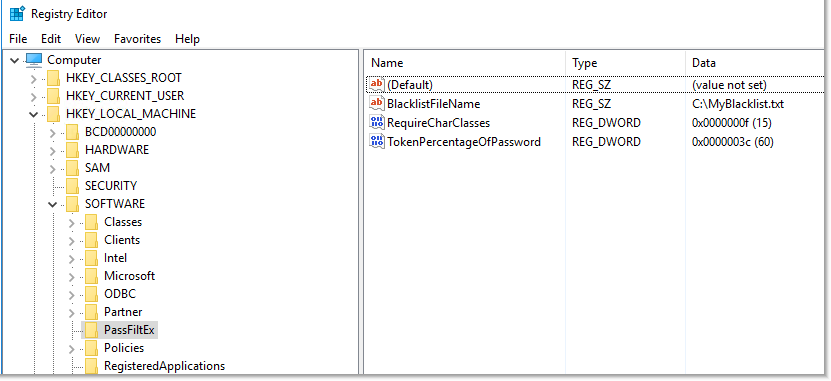
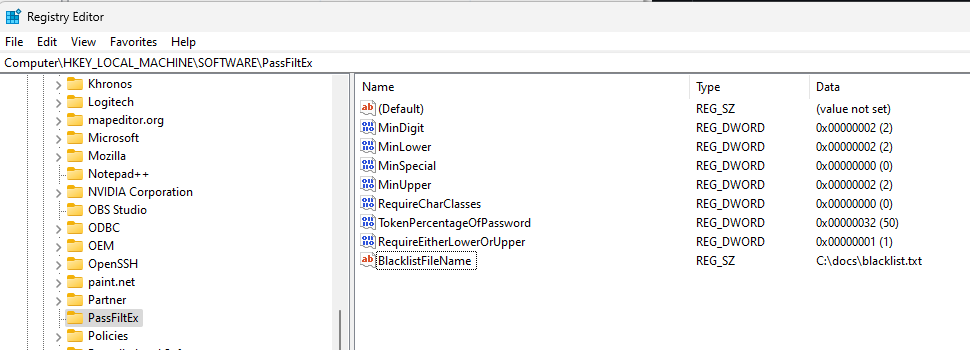
updating documentation

diff --git a/PassFiltEx.c b/PassFiltEx.c
@@ -1,15 +1,25 @@
 /*
+<img alt="GitHub all releases" src="https://img.shields.io/github/downloads/ryanries/PassFiltEx/total">
+
 PassFiltEx.c
+
 # PassFiltEx by Joseph Ryan Ries
-Author: Joseph Ryan Ries 2019 <ryanries09@gmail.com> <ryan.ries@microsoft.com>
+
+Author: Joseph Ryan Ries 2019-2023 <ryanries09@gmail.com> <ryan.ries@microsoft.com>
 
 A password filter for Active Directory that uses a blacklist of bad passwords/character sequences.
+
 Reference: https://msdn.microsoft.com/en-us/library/windows/desktop/ms721882(v=vs.85).aspx
+
 ********************************************************************************************
 # READ ME
+
 This is a personal project and is NOT endorsed or supported by Microsoft in any way.
+
 Use at your own risk. This code is not guaranteed to be free of errors, and comes
+
 with no guarantees, liability, warranties or support.
+
 ********************************************************************************************
 
 I wrote this just to join the club of people who can say that they've done it. Programming is fun.
@@ -17,30 +27,55 @@ I wrote this just to join the club of people who can say that they've done it. P
 Installation:
 
 - Copy PassFiltEx.dll into the C:\Windows\System32 (or %SystemRoot%\System32) directory.
+
 - Copy the PassFiltExBlacklist.txt file into the C:\Windows\System32 (or %SystemRoot%\System32) directory.
+
 - (Or replace the text file with a list of your own. You are free to edit the blacklist file if you want.)
+
 - Edit the registry: HKLM\SYSTEM\CurrentControlSet\Control\Lsa => Notification Packages
+
 - Add PassFiltEx to the end of the list. (Do not include the file extension.) So the whole list of notification packages will read
   "rassfm scecli PassFiltEx" with newlines between each one.
+
 - Reboot the domain controller.
+
 - Repeat the above procedure on all domain controllers.
+
 ![files](files1.png "files")
 
 ![regedit](regedit1.png "register the filter")
+
 
 Operation:
 
 - Any time a user attempts to change his or her password, or any time an administrator attempts to set a user's password, the
   callback in this password filter will be invoked.
+
 - All password filters must say yes in order for the password change to be accepted. If any password filter says no, the password
   is not accepted. Therefore, this password filter does not need to check for password length, password complexity, password
   age, etc., because those things are already checked for using the in-box Windows password policy.
 
 - Optionally, you can set the following registry values:
+
   Subkey: HKLM\SOFTWARE\PassFiltEx
+
 	**BlacklistFileName**, REG_SZ, Default: PassFiltExBlacklist.txt
+
 	**TokenPercentageOfPassword**, REG_DWORD, Default: 60
-	**RequireCharClasses**, REG_DWORD, Default: 0
+
+	**RequireEitherLowerOrUpper**, REG_DWORD, Default: 0
+
+	**MinLower**, REG_DWORD, Default: 0
+
+	**MinUpper**, REG_DWORD, Default: 0
+
+	**MinDigit**, REG_DWORD, Default: 0
+
+	**MinSpecial**, REG_DWORD, Default: 0
+
+	**MinUnicode**, REG_DWORD, Default: 0
+
+
 
 ![regedit](regedit2.png "optional reg entries")
 
@@ -59,24 +94,29 @@ Operation:
   password starwars1!DarthVader88 would be accepted, because even though it contains the blacklisted sequence starwars, more
   than 60% of the proposed password is NOT starwars.
 
-  **RequireCharClasses** allows you to require even more categories of characters over the built-in Active Directory
-  password complexity rules configured via Group Policy. The built-in AD password complexity rules only require 3 out of 5
-  possible different types of characters: Uppercase, Lowercase, Digit, Special, and Unicode. This registry setting allows you
-  to require 4 or even 5 out of the 5 possible different character types. You may use this registry setting either in combination
-  with the built-in AD password complexity, or without it. The value is a bitfield where 1 = require lower, 2 = require upper,
-  4 = require digit, 8 = require special, 16 = require unicode, and 32 = require either lower or upper. You can add these flags together to make combinations. E.g.,
-  a value of 15 (decimal) means "require lower AND upper AND digit AND special, but not unicode."
+  **MinLower/MinUpper/etc.** allows you to specify if you require the user's password to contain multiple instances of any
+  given character class. For example setting MinDigit to 2 will require passwords to contain at least 2 digits.
 
 
-- Comparisons are NOT case sensitive. The user's final password, once approved, will of course remain case sensitive though.
+
+- Comparisons are NOT case sensitive. (Though the final password will of course still be case sensitive.)
+
 - The blacklist is reloaded every 60 seconds, so feel free to edit the blacklist file at will. The password filter will read the
   new updates within a minute.
-- No Unicode support at this time. Everything is ASCII/ANSI. (You can still use Unicode characters in your passwords, but Unicode
+
+- Registry settings are re-read every 60 seconds as well so you can change the registry settings without having to restart the whole machine.
+
+- All registry settings are optional. They do not need to exist. If a registry setting does not exist, the default is used.
+
+- Unicode support is not thoroughly tested or reliable at this time. Everything is ASCII/ANSI. (You can still use Unicode characters in your passwords, but Unicode
   characters will not match against anything in the blacklist.)
+
 - Either Windows or Unix line endings (either \r\n or \n) in the blacklist file should both work. (Notepad++ is a good editor for
   finding unprintable characters in your text file.)
+
 - For example, if the blacklist contains the token "abc", then the passwords abc and abc123 and AbC123 and 123Abc will all be
   rejected. But Abc123! will be accepted, because the token abc does not make up 60% or more of the full password.
+
 - Question: Can you/will you integrate with Troy Hunt's "haveibeenpwned" API? Answer: Probably not. First, I'm pretty sure that has
   already been done by someone else. And you are free to use multiple password filters simultaneously if you want. Second,
   haveibeenpwned is about matching password hashes to identify passwords that have _already_ been owned. This password filter aims
@@ -89,15 +129,23 @@ Debugging:
 - The RELEASE build of the password filter uses only ETW event logging. The DEBUG build logs to ETW, stdout console and also DebugOut.
   (You can use Sysinternal's DbgView to view DebugOut messages.)
   WARNING: Debug builds print the passwords out into the logging, which is a security risk. Release builds do not print passwords.
+  This project also contains another program, PassFiltExTest.exe, which allows you to test the functionality of the password filter in
+  a simple console program where you just type sample passwords.
+
 - The password filter utilizes Event Tracing for Windows (ETW). ETW is fast, lightweight, and there is no concern over managing
   text-based log files which are slow and consume disk space.
+
 - The ETW provider for this password filter is 07d83223-7594-4852-babc-784803fdf6c5. So for example, you can enable tracing of the
   password filter on the next boot of the machine with: logman create trace autosession\PassFiltEx -o
   %SystemRoot%\Debug\PassFiltEx.etl -p "{07d83223-7594-4852-babc-784803fdf6c5}" 0xFFFFFFFF -ets
+
 - The trace will start when you reboot. To stop the trace, run:
   logman stop PassFiltEx -ets && logman delete autosession\PassFiltEx -ets
+
 - The StartTracingAtBoot.cmd and StopTracingAtBoot.cmd files provided contain these commands.
+
 - The other files, StartTracing.cmd and StopTracing.cmd will also enable the tracing, but the tracing will not persist across reboots.
+
 - Collect the *.etl file that is generated in the C:\Windows\debug directory. Then open the ETL file with a tool such as Microsoft
   Message Analyzer. (There are other tools that understand ETW as well. Use what you like.) Add the "payload" as a Column, and
   decode the payload column as Unicode. Then it should look like a normal, human-readable text log.
@@ -117,25 +165,36 @@ Debugging:
   to Starwars1!DarthVader, and that password was accepted because even though it contains the token starwars, more than 50% of the
   password is NOT starwars.
 
+
 Coding Guidelines:
 
 - Want to contribute? Cool! I'd like to stick to these rules:
+
 - C only. (No C++, at least not in the filter itself.)
+
 - Compile with All Warnings (/Wall). Project should compile with 0 warnings. You MAY temporarily disable warnings with #pragmas if
   the warnings are too pedantic (e.g. don't warn me about adding padding bytes to structs or that a function was inlined.)
+
 - MSVC 2017 was the IDE I used originally. You can use something else if you have a good reason to though.
+
 - Use a static analyzer. The MSVC IDE comes with Code Analysis. Put it on "All Rules". You shouldn't trigger any Code Analysis
   warnings.
+
 - Define UNICODE.
+
 - Prefix global symbols with a lower-case g, no underscore. (E.g. gGlobalVar, not g_GlobalVar)
+
 - Hungarian notation not necessary. Use descriptive variable names. We don't use 80-character terminals anymore; it's OK to type
   it out.
+
 - Comments are good but don't make a lot of comments about what the code does - instead write comments about _why_ you're doing
   what you're doing.
+
 - This code ABSOLUTELY MUST NOT CRASH. If it crashes, it will crash the lsass process of the domain controller, which will in turn
   reboot the domain controller. It can even render a domain controller unbootable. You'd need to boot the machine from alternate
   media and edit the registry offline to remove the password filter from the registry. Therefore, this code must be immaculate
   and as reliable as you can possibly imagine. Avoid being "clever" and just write "boring" code.
+
 */
 
 #define WIN32_LEAN_AND_MEAN

diff --git a/README.md b/README.md
@@ -4,7 +4,7 @@ PassFiltEx.c
 
 # PassFiltEx by Joseph Ryan Ries
 
-Author: Joseph Ryan Ries 2019 <ryanries09@gmail.com> <ryan.ries@microsoft.com>
+Author: Joseph Ryan Ries 2019-2023 <ryanries09@gmail.com> <ryan.ries@microsoft.com>
 
 A password filter for Active Directory that uses a blacklist of bad passwords/character sequences.
 
@@ -62,7 +62,18 @@ Operation:
 
 	**TokenPercentageOfPassword**, REG_DWORD, Default: 60
 	
-	**RequireCharClasses**, REG_DWORD, Default: 0
+	**RequireEitherLowerOrUpper**, REG_DWORD, Default: 0
+	
+	**MinLower**, REG_DWORD, Default: 0
+	
+	**MinUpper**, REG_DWORD, Default: 0
+	
+	**MinDigit**, REG_DWORD, Default: 0
+	
+	**MinSpecial**, REG_DWORD, Default: 0
+	
+	**MinUnicode**, REG_DWORD, Default: 0
+	
 	
 	
 ![regedit](regedit2.png "optional reg entries")	
@@ -82,33 +93,21 @@ Operation:
   password starwars1!DarthVader88 would be accepted, because even though it contains the blacklisted sequence starwars, more
   than 60% of the proposed password is NOT starwars.
   
-  **RequireCharClasses** allows you to require even more categories of characters over the built-in Active Directory
-  password complexity rules configured via Group Policy. The built-in AD password complexity rules only require 3 out of 5
-  possible different types of characters: Uppercase, Lowercase, Digit, Special, and Unicode. This registry setting allows you
-  to require 4 or even 5 out of the 5 possible different character types. You may use this registry setting either in combination
-  with the built-in AD password complexity, or without it. The value is a bitfield where:
-
-  - 1 = require lower
-
-  - 2 = require upper
-
-  - 4 = require digit
-
-  - 8 = require special
-
-  - 16 = require unicode
-
-  - 32 = require either upper or lowercase. 
-
-  You can add these flags together to make combinations. For example, a value of 15 (decimal) means "require lower AND upper AND digit AND special, but not unicode."
+  **MinLower/MinUpper/etc.** allows you to specify if you require the user's password to contain multiple instances of any
+  given character class. For example setting MinDigit to 2 will require passwords to contain at least 2 digits.
+  
 
   
 - Comparisons are NOT case sensitive. (Though the final password will of course still be case sensitive.)
 
 - The blacklist is reloaded every 60 seconds, so feel free to edit the blacklist file at will. The password filter will read the 
   new updates within a minute.
+  
+- Registry settings are re-read every 60 seconds as well so you can change the registry settings without having to restart the whole machine.
+  
+- All registry settings are optional. They do not need to exist. If a registry setting does not exist, the default is used.
 
-- No Unicode support at this time. Everything is ASCII/ANSI. (You can still use Unicode characters in your passwords, but Unicode 
+- Unicode support is not thoroughly tested or reliable at this time. Everything is ASCII/ANSI. (You can still use Unicode characters in your passwords, but Unicode 
   characters will not match against anything in the blacklist.)
 
 - Either Windows or Unix line endings (either \r\n or \n) in the blacklist file should both work. (Notepad++ is a good editor for 
@@ -129,6 +128,8 @@ Debugging:
 - The RELEASE build of the password filter uses only ETW event logging. The DEBUG build logs to ETW, stdout console and also DebugOut.
   (You can use Sysinternal's DbgView to view DebugOut messages.)
   WARNING: Debug builds print the passwords out into the logging, which is a security risk. Release builds do not print passwords.
+  This project also contains another program, PassFiltExTest.exe, which allows you to test the functionality of the password filter in 
+  a simple console program where you just type sample passwords.
 
 - The password filter utilizes Event Tracing for Windows (ETW). ETW is fast, lightweight, and there is no concern over managing 
   text-based log files which are slow and consume disk space.
